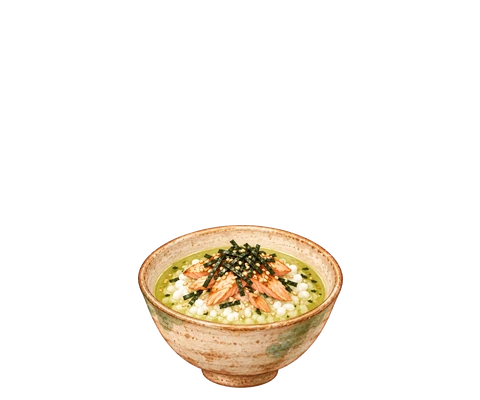
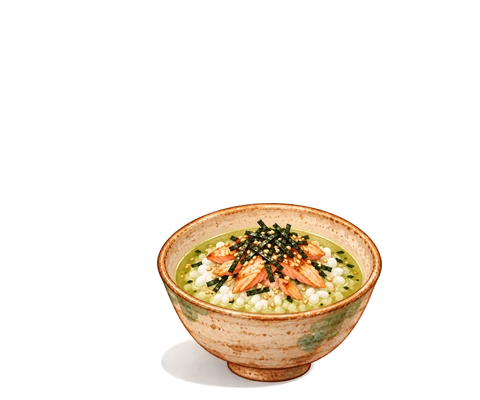
Update ochazuke/tempura art, auto-skip cutout for already-transparent raw art
process_item() now auto-detects raw art with real alpha transparency
(pre_cut_rgba() in tools/process_art.py) and skips background removal
for it entirely, rather than needing a per-item list.

ochazuke and tempura got new raw art (angle adjusted for the mat) with
genuine transparency, both updated here.

chirashi and yakitori were also reuploaded but turned out to be
flattened preview exports -- opaque RGB with a checkerboard pattern
and a faint watermark baked into the pixels, not real alpha. Left
both on their previous art rather than ship the artifact; need a
clean re-export.

Claude-Session: https://claude.ai/code/session_01Tdj66wXQKqFuepC4cD5qEY

Changed region(s): [[0.2812, 0.51, 0.8125, 0.99]]

diff --git a/tools/process_art.py b/tools/process_art.py
@@ -98,6 +98,23 @@ def load(path):
     return np.asarray(Image.open(path).convert('RGB'), dtype=np.float32)
 
 
+def pre_cut_rgba(path):
+    """If the raw file already has real alpha transparency (an artist-cut PNG, not just an unused
+    opaque alpha channel), return it as rgba (RGB 0..255, alpha 0..1) ready for trim/compose,
+    skipping background removal entirely. Otherwise return None, meaning cut_out() should run as
+    usual. Detected automatically per file, so no per-item list to maintain."""
+    im = Image.open(path)
+    if 'A' not in im.getbands():
+        return None
+    im = im.convert('RGBA')
+    arr = np.asarray(im, dtype=np.float32)
+    if arr[..., 3].min() > 250:   # fully opaque alpha channel: not actually cut out
+        return None
+    out = arr.copy()
+    out[..., 3] /= 255.0
+    return out
+
+
 def border_colour(rgb, n=8):
     ring = np.concatenate([rgb[:n].reshape(-1, 3), rgb[-n:].reshape(-1, 3),
                            rgb[:, :n].reshape(-1, 3), rgb[:, -n:].reshape(-1, 3)])
@@ -330,14 +347,19 @@ def process_item(name, path, scale, log):
     """scale is shared by every item, so an object drawn at the reference cat's size
     comes out at the reference cat's size in the yard."""
     scale = scale * OBJECT_SIZE.get(name, 1.0)
-    rgba, bg, green = cut_out(load(path), clear_holes=name in CLEAR_HOLES)
+    pre = pre_cut_rgba(path)
+    if pre is not None:
+        rgba, bg_note = pre, 'already transparent, no cutout needed'
+    else:
+        rgba, bg, _ = cut_out(load(path), clear_holes=name in CLEAR_HOLES)
+        bg_note = f'backdrop {bg.round().astype(int).tolist()}'
     if name in SHADOW_CUT:
         rgba = drop_shadow(rgba, from_frac=SHADOW_CUT[name])
     ys, xs = np.where(rgba[..., 3] > TRIM_ALPHA)
     x_raw, y_raw = xs.min(), ys.min()          # where the trimmed content starts in the raw image
     rgba = trim(rgba)
     h, w = rgba.shape[:2]
-    log(f'  {path.name}: backdrop {bg.round().astype(int).tolist()}, content {w}x{h}, '
+    log(f'  {path.name}: {bg_note}, content {w}x{h}, '
         f'scale {scale:.4f} -> {round(h * scale)}x{round(w * scale)} px')
     canvas = compose(rgba, scale, name, center='bbox' if name in CENTER_BBOX else 'body')
     dx = OBJECT_SHIFT.get(name, 0)

diff --git a/HANDOFF-RYOKAN.md b/HANDOFF-RYOKAN.md
@@ -21,6 +21,8 @@ I'm continuing work on "Neko Ryokan", a Neko Atsume-style cat game, a static sit
 - XL baths (clay, hex, hinoki): each takes a row of two spots and draws at their shared midpoint, scaled 2x from transform-origin 50% 90%. They sit on a diagonal, not stacked — top row at x 32%, bottom row at x 70% (XL_X), both 6% lower than the row's natural midpoint (XL_DROP) to clear the painted pool in the background art. The stone bath (onsen-stone) was removed from the shop entirely; its art is still in objects/ but unused.
 - Food: a new layer, separate from the dining room's four sittable props (onigiri etc). Set out at FOOD_SPOT, one fixed position on the open dining-room floor (not one of its four item spots), marked by its own placemat (objects/food-mat.webp) drawn under the food art — the mat is always visible, placed or not, so it alone marks the spot instead of a dashed empty-mark like regular spots. It still needed z-index:95 like the desk, since a nearby regular spot's much bigger invisible button box would otherwise swallow its taps (same bug class as the desk fix) — keep this even though the mat now makes the spot visually obvious, the click-hitbox issue is unrelated to visibility. No cat ever poses on or visits food (it's just never put in state.spots, so the visitor-arrival loop can't see it). state.food is `{ id, expiresAt } | null`; it's eaten up (removed from state.owned, and state.food set to null) once Date.now() passes expiresAt, checked in simulate() the same way visitor departures are. Putting food away before it expires keeps it owned but forgets the remaining time — placing it again starts a fresh full duration. Only one food item can be owned-and-placed at a time since there's only one spot; buying/multiple ownership ahead of placing is fine, they just queue in the Bag. The shop gives food its own page (SHOP_SECTIONS in index.html), inserted right after the dining room's regular-items page, rather than mixing food into that page or using tabs — see sectionFor() for mapping a game room to its shop page index. All six planned items are in now (ochazuke, yakitori, tempura, chirashizushi/chirashi, unadon, kaiseki) — tamagoyaki is the only one still missing art. "Food determines whether cats come at all" was discussed but deliberately NOT implemented — right now food is cosmetic/decorative only, cats visit items exactly as before regardless of whether food is out.
 - Food art lesson: don't ask for steam/smoke in a food item's own prompt. It doesn't cut out cleanly against the flat grey backdrop (same reason the onsen prompts already said "no steam") and leaves a grey smudge baked into the item — happened twice (yakitori, ochazuke) before the shared food item block in ART-PROMPTS-ROOMS.md got an explicit "no steam, no smoke, no haze" rule. If a food item ever looks smudged, check whether its raw art has painted steam before assuming it's a cutout bug.
+- process_item() now auto-detects raw art that's already genuinely transparent (pre_cut_rgba() in tools/process_art.py: real alpha channel with some value below 250, not just an unused opaque one) and skips cut_out() entirely for it — no per-item list to maintain, it just checks each file. Useful when raw files come pre-cut instead of needing background removal.
+- Watch for raw PNGs that only *look* transparent in a preview but are actually opaque RGB with a checkerboard pattern and/or a faint watermark baked into the pixels — this happens when an art tool exports its transparency-preview checkerboard instead of real alpha (e.g. an unlicensed/demo export). `Image.open(path).mode` reports 'RGB' (no 'A') for these, unlike a real cutout ('RGBA'). Hit this with two reuploads (yakitori.png, chirashi.png) that looked fine in a thumbnail but produced a visible grey checker patch once composited — pre_cut_rgba() correctly skipped them (no alpha to detect) but cut_out()'s single-backdrop-colour model can't cleanly remove a two-tone checker pattern that shares pixel values with the real subject, so don't try to special-case a threshold fix: ask for a clean re-export with genuine alpha instead, the same way steam/smoke asks for a redo rather than a pipeline workaround.
 - Kaiseki (and possibly other wide/angled items) needed CENTER_BBOX in tools/process_art.py: compose() normally centres on the bottom band of content (body_centre_x, intentional for cats — see the pipeline notes above), but a box drawn at a three-quarter angle has its near-bottom corner off to one side, which threw the bottom-band centring off in a way that never happens for a cat or a simple sitting object. CENTER_BBOX names items that should use plain bounding-box centring instead.
 - Seasonal panorama: PANO_SEASONS in index.html maps real-world month groups (4 months each) to a scene/ryokan-pano*.webp file — spring (Mar-Jun) and winter (Nov-Feb) are separate files, the original maple/autumn art (scene/ryokan-pano.webp, no suffix) covers the remaining Jul-Oct as a placeholder until a true summer variant exists. Picked once at page load (applyPano(), called from start() before renderRooms()) via a `--pano` CSS variable the shared `.bg` rule reads, not rechecked on a timer since the season can't change mid-session. `?season=spring|winter|autumn` in the URL forces one for testing, bypassing the calendar. tools/process_art.py was generalized to treat any raw/scene/ryokan-pano-<suffix>.png as a panorama (full size, no resize), not just the exact 'ryokan-pano' stem — so adding a new season later is just dropping raw/scene/ryokan-pano-<name>.png in and adding an entry to PANO_SEASONS. Caution: this also picks up any other ryokan-pano-* file left in raw/scene/ (e.g. the -v2 draft files we keep around locally for comparison) and generates a scene/*.webp for each one even though nothing references them — delete those stray outputs after a pipeline run, same as the existing room-*.webp quirk above.
 - Food spot's placemat moved from a separate drawn layer (objects/food-mat.webp, no longer referenced) into the room art itself: the artist now paints the mat directly into the panorama (e.g. raw/scene/ryokan-pano-mat.png), and FOOD_SPOT's x/y in index.html is measured pixel-for-pixel from that painted mat rather than tuned by eye. Method: crop one room-width slice out of the full panorama (slice width = image width / 6; dining room is slice index 1), threshold on saturation to isolate the mat (it's far less saturated than the orange wood floor) with numpy, take the bounding box, then x% = bbox centre-x / slice width, y% = bbox bottom-y / slice height. This fixed the drift problem a cqw/cqh-nudged separate layer had across different screen sizes (see the desk/mat discussion this was motivated by) — once the mat is part of the same image that's already scaled correctly by background-size/position, there's nothing left to drift; the food-spot button just needs to sit at the same percentage the art was measured at. Every seasonal pano variant needs its own `-mat` version with the mat painted at the same spot for this to stay correct; right now only the default/autumn has one live (scene/ryokan-pano.webp currently IS the -mat version, swapped in for testing — spring.webp/winter.webp do NOT have the mat painted in yet).
